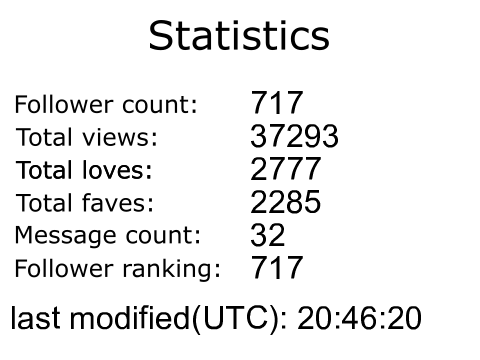
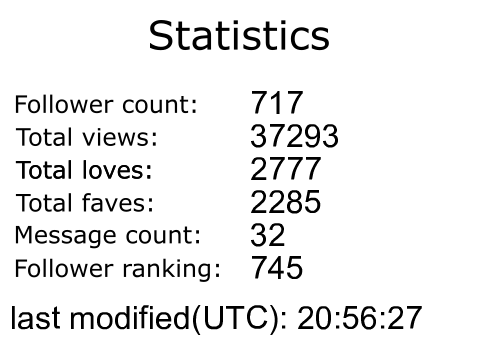
changes

Changed region(s): [[0.5625, 0.7028, 0.6562, 0.7944], [0.6875, 0.825, 0.75, 0.9167], [0.8438, 0.825, 0.875, 0.9167]]

diff --git a/libraries/get.js b/libraries/get.js
@@ -25,12 +25,12 @@ const get = (link)=>{
 
     })
 }
-const gettn = async()=> {
+const gettn = async(follower,username)=> {
   return new Promise((resolve,reject)=>{
-    get("https://scratchdb.lefty.one/v3/user/info/xX_Freezer_Xx").then(res=>{
+    get(`https://scratchdb.lefty.one/v3/user/info/${username}`).then(res=>{
         const db = res;
             Jimp.read('bg.png').then(async image=>{
-                const count = await get("https://api.scratch.mit.edu/users/xX_Freezer_Xx/messages/count");
+                const count = await get(`https://api.scratch.mit.edu/users/${username}/messages/count`);
                 const font = await Jimp.loadFont(Jimp.FONT_SANS_32_BLACK);  
                 let pos=[];
                 for(let i=0;i<6;i++){
@@ -41,7 +41,7 @@ const gettn = async()=> {
                 image.print(font, 250, pos[2], `${db.statistics.loves}`);
                 image.print(font, 250, pos[3], `${db.statistics.favorites}`);
                 image.print(font, 250, pos[4], `${count.count}`);
-                image.print(font, 250, pos[5], `${db.statistics.followers}`);
+                image.print(font, 250, pos[5], `${follower}`);
                 image.print(font, 10, 300, `last modified(UTC): ${date.getUTCHours()}:${date.getUTCMinutes()}:${date.getUTCSeconds()}`);
                 image.writeAsync("a.png").then(()=>{
                   fs.readFile("a.png",(err,data)=>{

diff --git a/index.js b/index.js
@@ -12,12 +12,12 @@ const task = ()=>{
   .then((result)=> {
     const sessionid = result;
     getfollower(username)
-    .then((res=>gettn(res)))
+    .then((res=>gettn(res,username)))
     .then(res=>settn(res,projectId,sessionid))
     .then(res=>console.log(res));
 })
 }
-task();
+task();//Run this function periodic if you want to change periodic.
 
 
 const http = require("http");

diff --git a/readme.md b/readme.md
@@ -20,8 +20,7 @@ projectid=yourprojectid
 ## LICENCE  
 MIT Licence.
 ## NOTE
-1000秒に1回の頻度で変更されます。サーバー上で24時間実行させておくといいでしょう。(Replit上ではScratch apiの都合で動きません。)  
-Thumbnail will be changed once in 1000 seconds. I recoomend you to run this on Heroku or something to run 24/7.(It doesn't work on Replit due to scratch api's problems.)  
-
+起動すると一度だけ変更されます。定期的に変更したいならindex.js上でSetintervalの中で関数を実行すればいいでしょう。  
+It will change the thumbnail ONLY ONCE when you start up. If you want to change it periodic, go to index.js and setinterval the function specified(or other way you know))
 ## Credit
 Jimp
